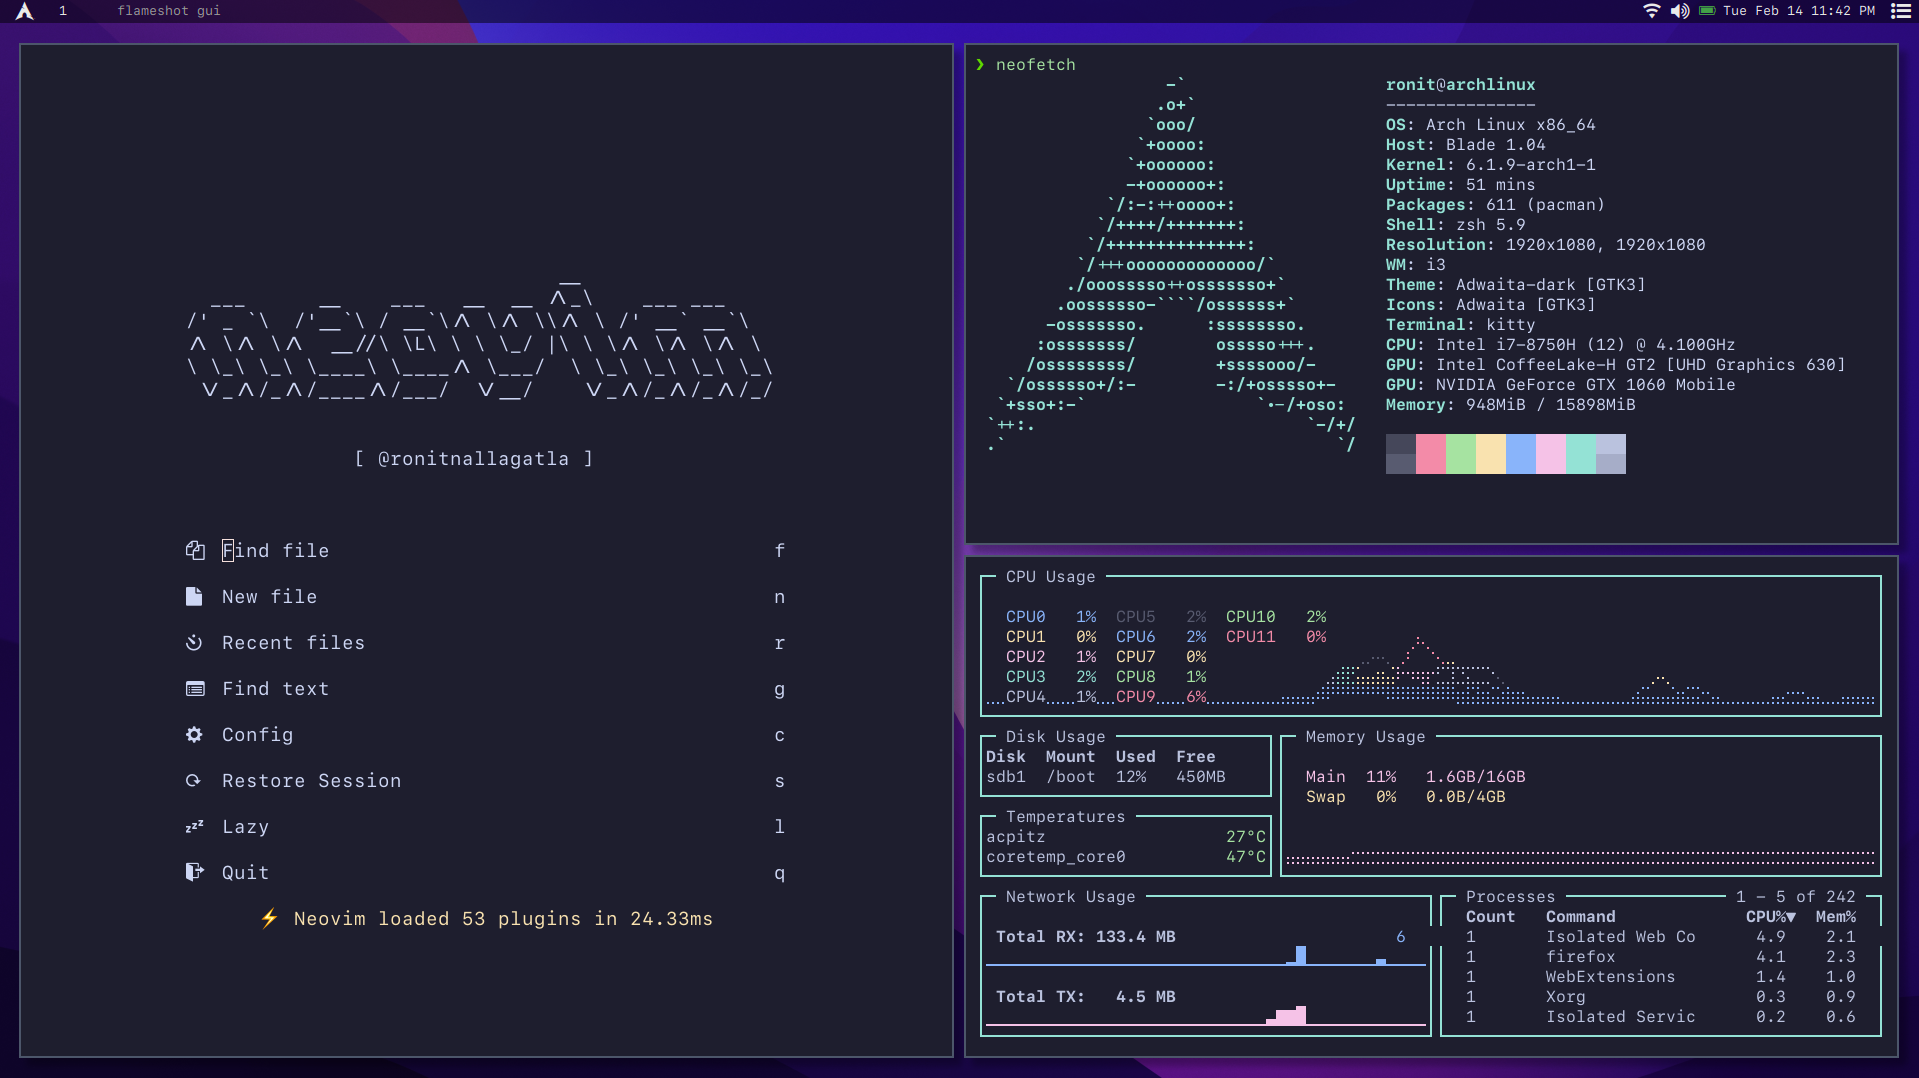
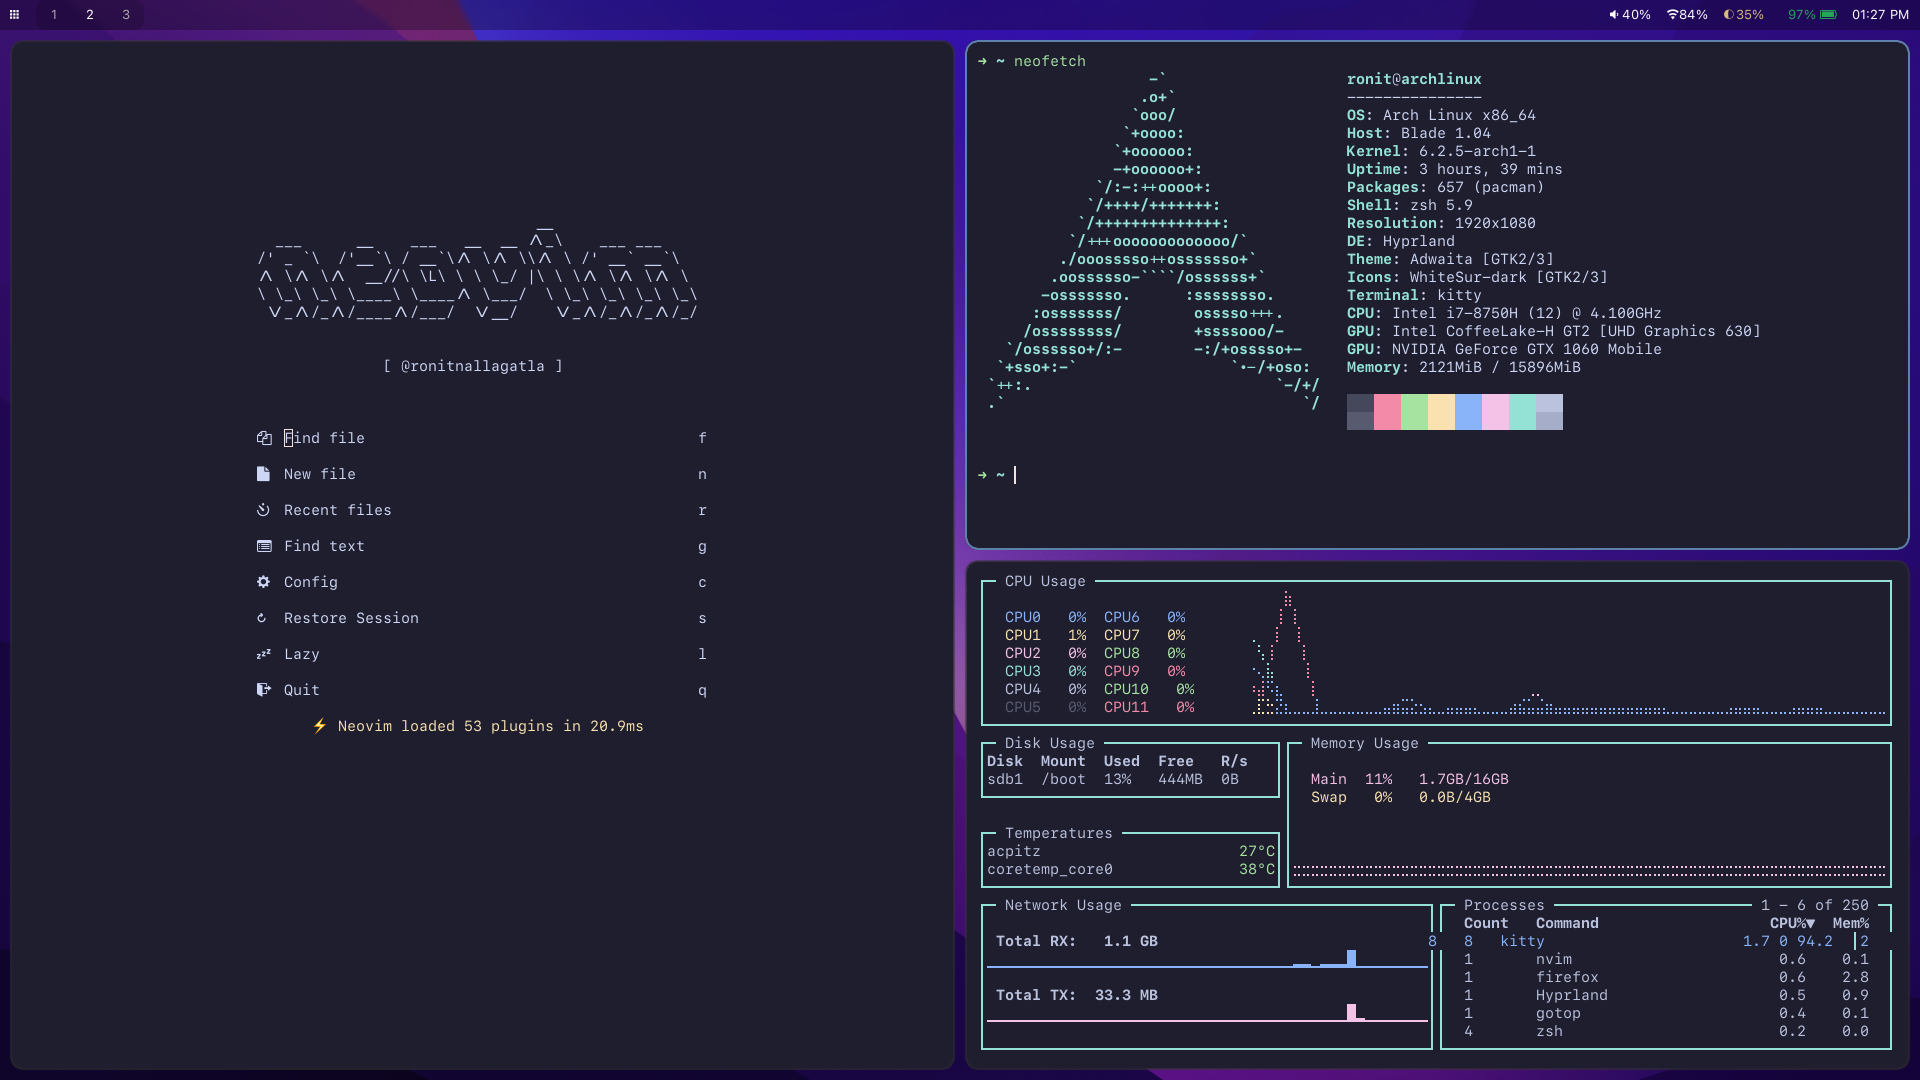
update fetch

diff --git a/README.md b/README.md
@@ -1,10 +1,5 @@
 # dotfiles
 Decided to get a basic Arch Linux setup going. I'm running it on a removable external SSD so that I can switch between Windows and Linux. It seems to be pretty stable so far. 
 
-## TODO
-- Get nvidia optimus working, battery life is abysmal rn
-- Configure trackpad gestures for i3 navigation, or just get on hyprland -- DONE
-- Figure out how to make some apps not tile by default -- DONE
-
 ## Fetch
 ![neofetch screenshot](./fetch.png)
